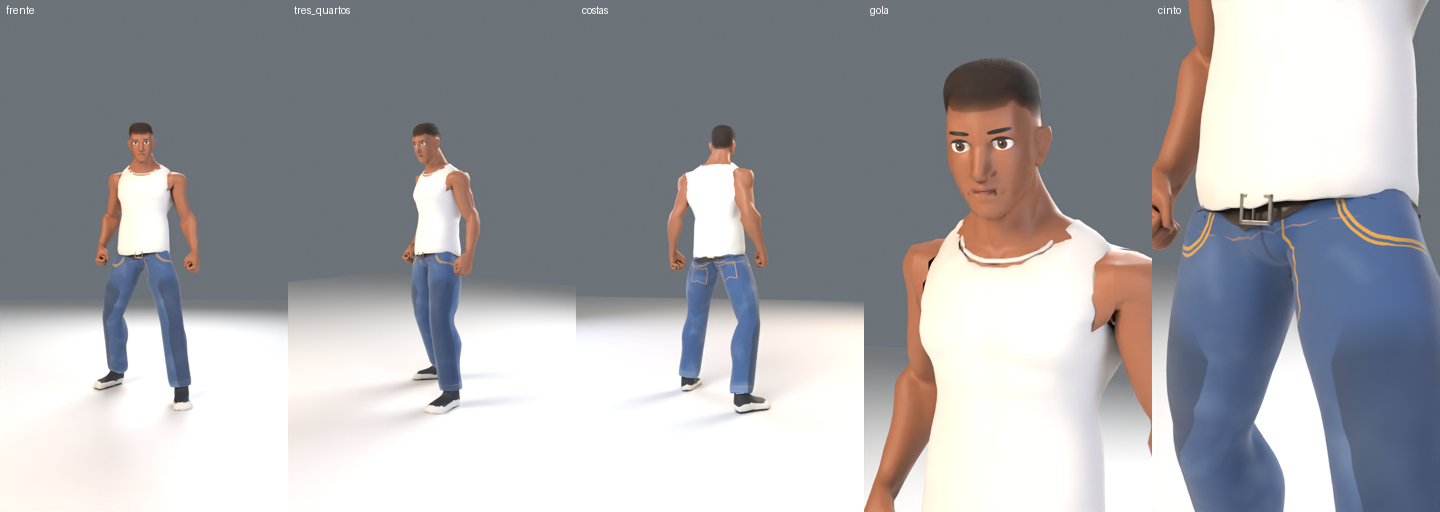
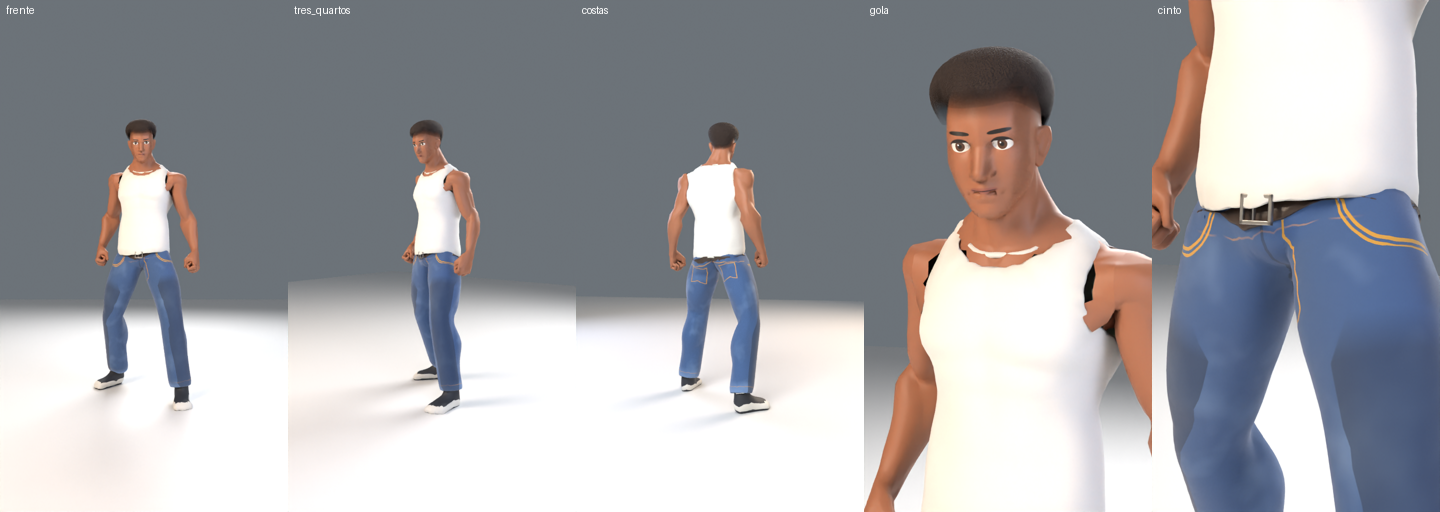
Checkpoint: personagem cara v2 em andamento (agente)
Claude-Session: https://claude.ai/code/session_01LTuGaoNMB16qvfW22NeZiH

diff --git a/motor3d/personagem_q.py b/motor3d/personagem_q.py
@@ -33,7 +33,7 @@ FPS = 24
 ALTURA_ARQ = 1.81                      # altura do corpo-base no arquivo (m)
 
 TIPOS = {
-    "cara": dict(pele="#A86B4C", cabelo="#16100C", camisa="#F0EEE8", calca="#3F5F8F", sapato="#2B2E35",
+    "cara": dict(pele="#A86B4C", cabelo="#1A1410", camisa="#F0EEE8", calca="#3F5F8F", sapato="#2B2E35",
                  sola="#E6E2DA", cinto="#3A2A1E", altura=1.76, corte="crespo", roupa="civil", peca="regata"),
     "ze": dict(pele="#8A5A40", cabelo="#2A1E17", macacao="#1F4E79", detalhe="#E8590C", sapato="#2A211C",
                sola="#151515", altura=1.79, corte="Hair_SimpleParted", roupa="macacao", peca="macacao"),
@@ -538,7 +538,7 @@ def _forma_regata(bm):
             v.co.x, v.co.y = dx * k, yc + dy * k
 
 
-def _acabamento(o, mat, raio=0.0042, lados=8, alisar=12, so_z_acima=None):
+def _acabamento(o, mat, raio=0.0042, lados=8, alisar=40, so_z_acima=None):
     """Viés/ribana: tubo liso seguindo cada borda aberta da casca `o` (esconde qualquer serrilhado do corte), com os
     pesos do vértice de borda mais próximo (deforma junto). so_z_acima: só as bordas acima dessa altura."""
     me = o.data
@@ -573,8 +573,9 @@ def _acabamento(o, mat, raio=0.0042, lados=8, alisar=12, so_z_acima=None):
             continue
         P = [co[i].copy() for i in laco]
         n = len(P)
-        for _ in range(alisar):
-            P = [(P[(k - 1) % n] + P[k] * 2 + P[(k + 1) % n]) / 4 for k in range(n)]
+        for it in range(alisar):                  # Taubin: alisa sem encolher o laço
+            f = 0.5 if it % 2 == 0 else -0.53
+            P = [P[k] + ((P[(k - 1) % n] + P[(k + 1) % n]) / 2 - P[k]) * f for k in range(n)]
         base = len(vs)
         for k in range(n):
             t = (P[(k + 1) % n] - P[(k - 1) % n]).normalized()
@@ -616,7 +617,7 @@ def _regata(corpo, nome, cor):
         return (1.497 + 0.03 * (ax / 0.085) ** 2) if y < 0.03 else (1.525 + 0.012 * (ax / 0.085) ** 2)
 
     def cava(z):
-        return 0.192 - (z - 1.30) * 0.16
+        return 0.19 - (z - 1.30) * 0.21
 
     def tem(x, y, z):
         ax = abs(x)
@@ -654,7 +655,7 @@ def _regata(corpo, nome, cor):
     o = _casca(corpo, nome, tem, lambda x, y, z: 0.009 if abs(x) > 0.16 and z > 1.3 else 0.008, m,
                espessura=0.003, projetar=projetar, forma=_forma_regata, alisar=10, vies=(0.035, 0.006))
     rib = _tecido(nome + "_ribana", "#E6E3DB", escala=1600, contraste=0.10)
-    return [o, _acabamento(o, rib, raio=0.0045, so_z_acima=1.2)]
+    return [o, _acabamento(o, rib, raio=0.0055, so_z_acima=1.2)]
 
 
 def _jeans(corpo, nome, cor):
@@ -816,7 +817,9 @@ def _cabelo_crespo(Q, corpo, cor, pele):
         return z > linha(x, y) and z > 1.6
 
     def desloc(x, y, z):
-        return 0.0025 + 0.017 * _liso(z, 1.735, 1.80) * (1 - 0.4 * _liso(abs(x), 0.04, 0.09))
+        # "black" curto arredondado: ~3,5 cm no topo, caindo para ~0,5 cm nas laterais e nuca (degradê alto);
+        # na linha do cabelo começa rente (sem "aba")
+        return 0.004 + 0.033 * _liso(z, 1.69, 1.785) * _liso(z - linha(x, y), 0.0, 0.045)
 
     m = bpy.data.materials.new(Q["nome"] + "_cabelo")
     m.use_nodes = True
@@ -824,14 +827,14 @@ def _cabelo_crespo(Q, corpo, cor, pele):
     b = nt.nodes["Principled BSDF"]
     b.inputs["Roughness"].default_value = 0.85
     vo = _no(nt, "ShaderNodeTexVoronoi")
-    vo.inputs["Scale"].default_value = 420.0
+    vo.inputs["Scale"].default_value = 300.0
     nt.links.new(_rest(nt), vo.inputs["Vector"])
     nz = _no(nt, "ShaderNodeTexNoise")
     nz.inputs["Scale"].default_value = 1400.0
     nt.links.new(_rest(nt), nz.inputs["Vector"])
     bp = _no(nt, "ShaderNodeBump")
-    bp.inputs["Strength"].default_value = 0.6
-    bp.inputs["Distance"].default_value = 0.002
+    bp.inputs["Strength"].default_value = 0.9
+    bp.inputs["Distance"].default_value = 0.003
     nt.links.new(vo.outputs["Distance"], bp.inputs["Height"])
     nt.links.new(bp.outputs["Normal"], b.inputs["Normal"])
     ca = _no(nt, "ShaderNodeVertexColor", layer_name="vies")
@@ -923,7 +926,7 @@ def personagem(tipo="cara", nome=None, cores=None, peca=None):
                 return True
             if C["peca"] == "regata" and 0.9 < z < 1.6 and ax < 0.3:       # sob a regata, longe das bordas
                 gola = (1.497 + 0.03 * (min(ax, 0.085) / 0.085) ** 2) if y < 0.03 else 1.525
-                if z > 1.27 and ax > 0.192 - (z - 1.30) * 0.16 - 0.012:
+                if z > 1.27 and ax > 0.19 - (z - 1.30) * 0.21 - 0.035:
                     return False
                 return z < gola - 0.012
             return False
